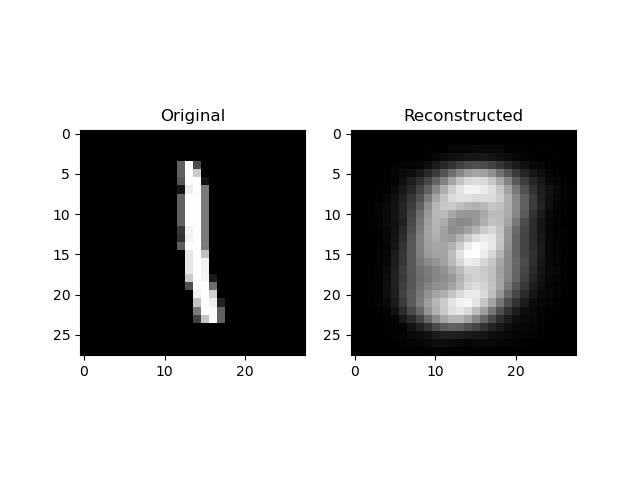
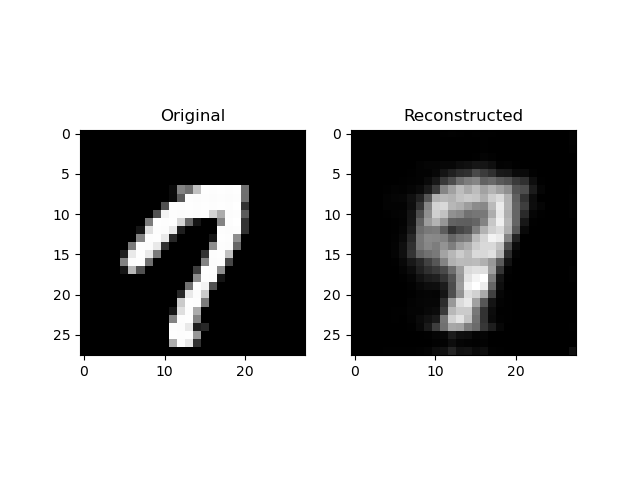
25.2.7

Changed region(s): [[0.5938, 0.3125, 0.875, 0.75], [0.1875, 0.3125, 0.4062, 0.75]]

diff --git a/ML/pytorch/auto_encoder/VAE_cnn.py b/ML/pytorch/auto_encoder/VAE_cnn.py
@@ -30,15 +30,19 @@ class VAE(nn.Module):
         self.decoder_input = nn.Linear(2, 4*4*8) # decoder에 넣기 전에 할 작업.
         # Decoder
         self.decoder = nn.Sequential(
-            nn.Conv2d(in_channels=8, out_channels=4, kernel_size=3, stride=2, padding=1), 
+            nn.ConvTranspose2d(in_channels=8, out_channels=4, kernel_size=3, stride=2, padding=1),
             nn.ReLU(),
-            nn.Conv2d(in_channels=4, out_channels=2, kernel_size=3, stride=2, padding=1),
+            nn.ConvTranspose2d(in_channels=4, out_channels=2, kernel_size=3, stride=2, padding=1, output_padding=1),
             nn.ReLU(),
-            nn.Conv2d(in_channels=2, out_channels=1, kernel_size=3, stride=2, padding=1),
+            nn.ConvTranspose2d(in_channels=2, out_channels=1, kernel_size=3, stride=2, padding=1, output_padding=1),
+            nn.Sigmoid()
         )
 
     def encode(self, x):
         x = self.encoder(x)
+        # print(x.size(0))
+        x = x.view(x.size(0), -1)
+        # print(x.shape)
         mu = self.mu_layer(x)
         log_var = self.log_var_layer(x)
         return mu, log_var
@@ -49,21 +53,27 @@ class VAE(nn.Module):
         return mu + eps * std  # 재파라미터화 트릭 적용
 
     def decode(self, z):
+        z = z.view(z.size(0), 8, 4, 4)
+        # print(f'decoder_input 다음에 z.shape : ', z.shape)
         return self.decoder(z)
 
     def forward(self, x):
         mu, log_var = self.encode(x)
+        # print(f'mu : {mu.shape}, log_var = {log_var.shape}')
         z = self.reparameterize(mu, log_var)  # 잠재 공간에서 샘플링
+        # print(f'z.shape : {z.shape}')
         z = self.decoder_input(z)
+        # print(f'z.shape : {z.shape}')
         recon_x = self.decode(z)
+        # print(f'recon_x.shape : {recon_x.shape}')
         return recon_x, mu, log_var
 
 
 # ✅ 손실 함수 (VAE는 Reconstruction Loss + KL Divergence)
 def loss_function(recon_x, x, mu, log_var):
     recon_loss = nn.MSELoss()(recon_x, x)
-    kl_divergence = -0.5 * torch.sum(1 + log_var - mu.pow(2) - log_var.exp())  # KL Divergence
-    return recon_loss + kl_divergence * 0.0001  # KL 손실 가중치 조절
+    kl_divergence = -0.5 * torch.mean(1 + log_var - mu.pow(2) - log_var.exp())  # KL Divergence
+    return recon_loss + kl_divergence * 0.001  # KL 손실 가중치 조절
 
 
 if __name__ == '__main__':
@@ -82,15 +92,15 @@ if __name__ == '__main__':
 
 
     # ✅ 학습 루프
-    n_epochs = 20
+    n_epochs = 50
     for epoch in range(n_epochs):
         model.train()
         total_loss = 0
 
         for batch in train_loader:
             img, _ = batch
-            img = img.view(img.size(0), -1).to(device)
-
+            # print(img.shape)
+            img = img.to(device)
             optimizer.zero_grad()
             recon_img, mu, log_var = model(img)
             loss = loss_function(recon_img, img, mu, log_var)
@@ -108,7 +118,7 @@ if __name__ == '__main__':
     os.makedirs(save_dir, exist_ok=True)
 
     for idx, (images, _) in enumerate(train_loader):
-        images = images.view(images.size(0), -1).to(device)
+        images = images.to(device)
         fake_images, _, _ = model(images)
 
         orig = images[0].cpu().detach().numpy().reshape(28, 28)

diff --git a/markdown/25년/25.2.13.md b/markdown/25년/25.2.13.md
@@ -3,17 +3,26 @@
 <li> GENE Activ 7cls(500w, 1000w), 14cls에 대해서 Annealing을 적용한 2 Teacher(GAF, Sig)학습. </li>
 <li> PAMAP 데이터셋에 대해 Teacher로 사용할 네트워크 학습. (0 ~ 8 OVR로 9번 x 3 trial로 총 27개의 학습) </li>
 <li> Object Detection에 대해서 공부해보려고 한다. (Yolo, 어떤 식의 데이터로 어떤 식의 학습이 이루어지는가.) </li>
+<li> VAE, WAE에 대해 MNIST로 공부... (어렵구만.) </li>
+
+
+### SPKD 논문 리뷰
+
+
+
+### Object Detection 공부.
 
 
 
 
 
+### SP를 사용한 학습 설명
+1. sp_param이 GENE_Activ에는 700, PAMAP2에는 200으로 설정이 되었는데 이것이 무엇일까?
+2. sp_param(β)은 앞의 CE_Loss(Student)와 KD_Loss(T1, T2, S)간의 가중치는 λ로 관리하는데, 그 때 SP_Loss를 몇으로 설정해야 학습이 골고루 잘 될까 하는 하이퍼 파라미터이다.
+3. α는 두 Teacher 간 logits loss를 합칠 때의 가중치
+4. k는 분할 개수(?) : Feature Representation을 나누는 개수. 이게 4였기 때문에, 우리 코드에서 최종 출력(1), At1(2), At2(3), At3(4)으로 총 4개임.
 
-
-
-
-
-
+<img src="https://github.com/wjdwocks/ML-DNN/raw/main/markdown/25년/25.2.13/TPKD_sp_param.png" alt="sp_param이 뭐냐" width="500">
 
 
 
